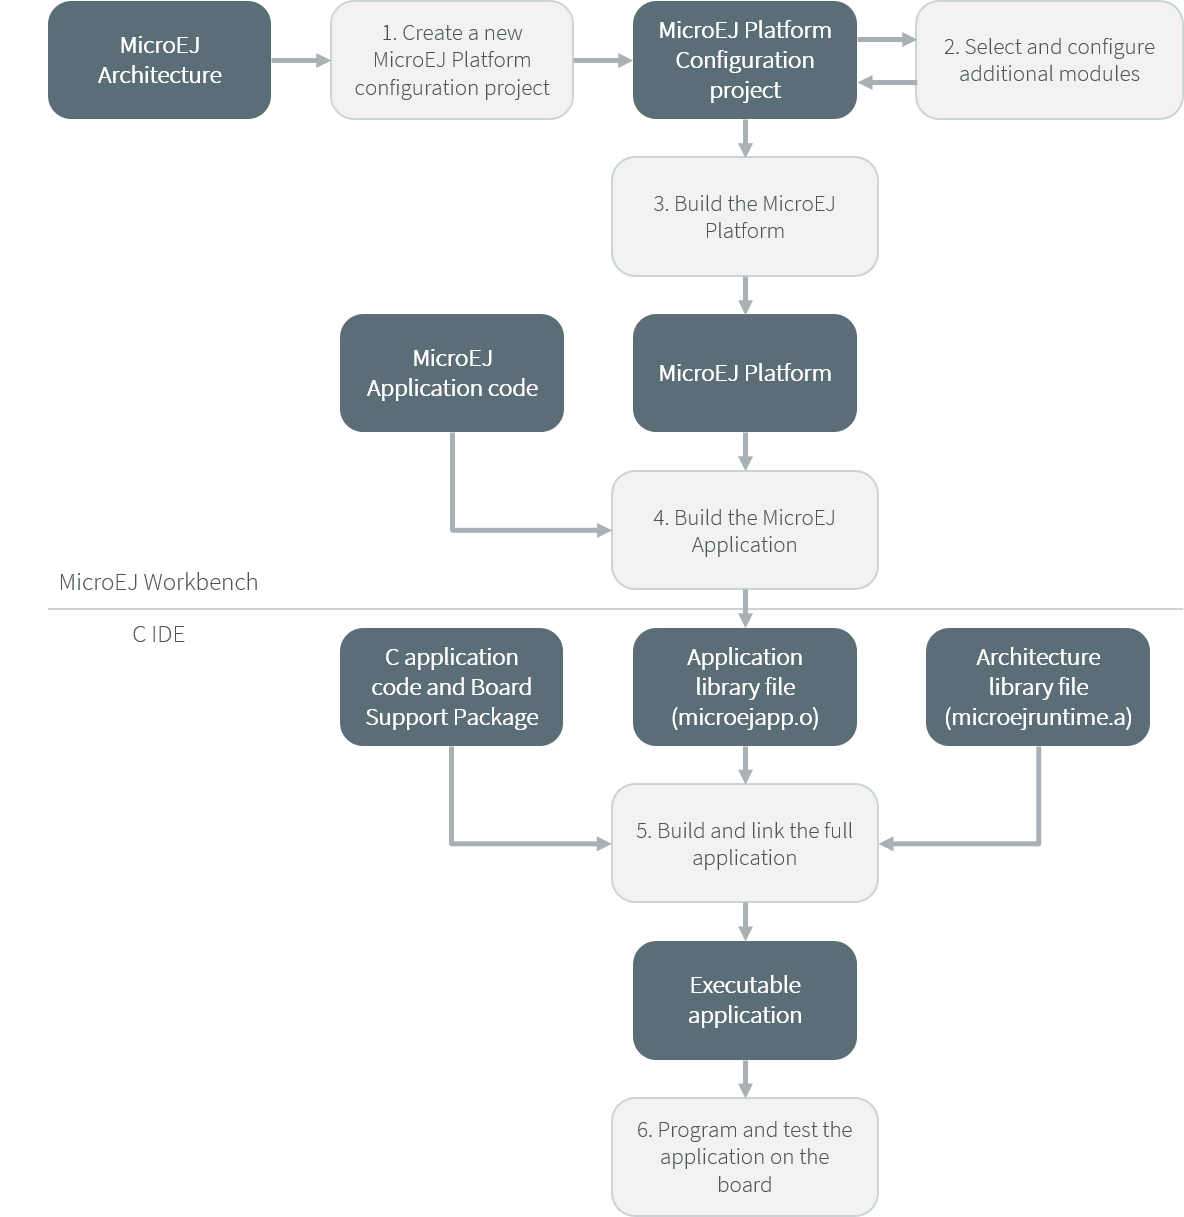
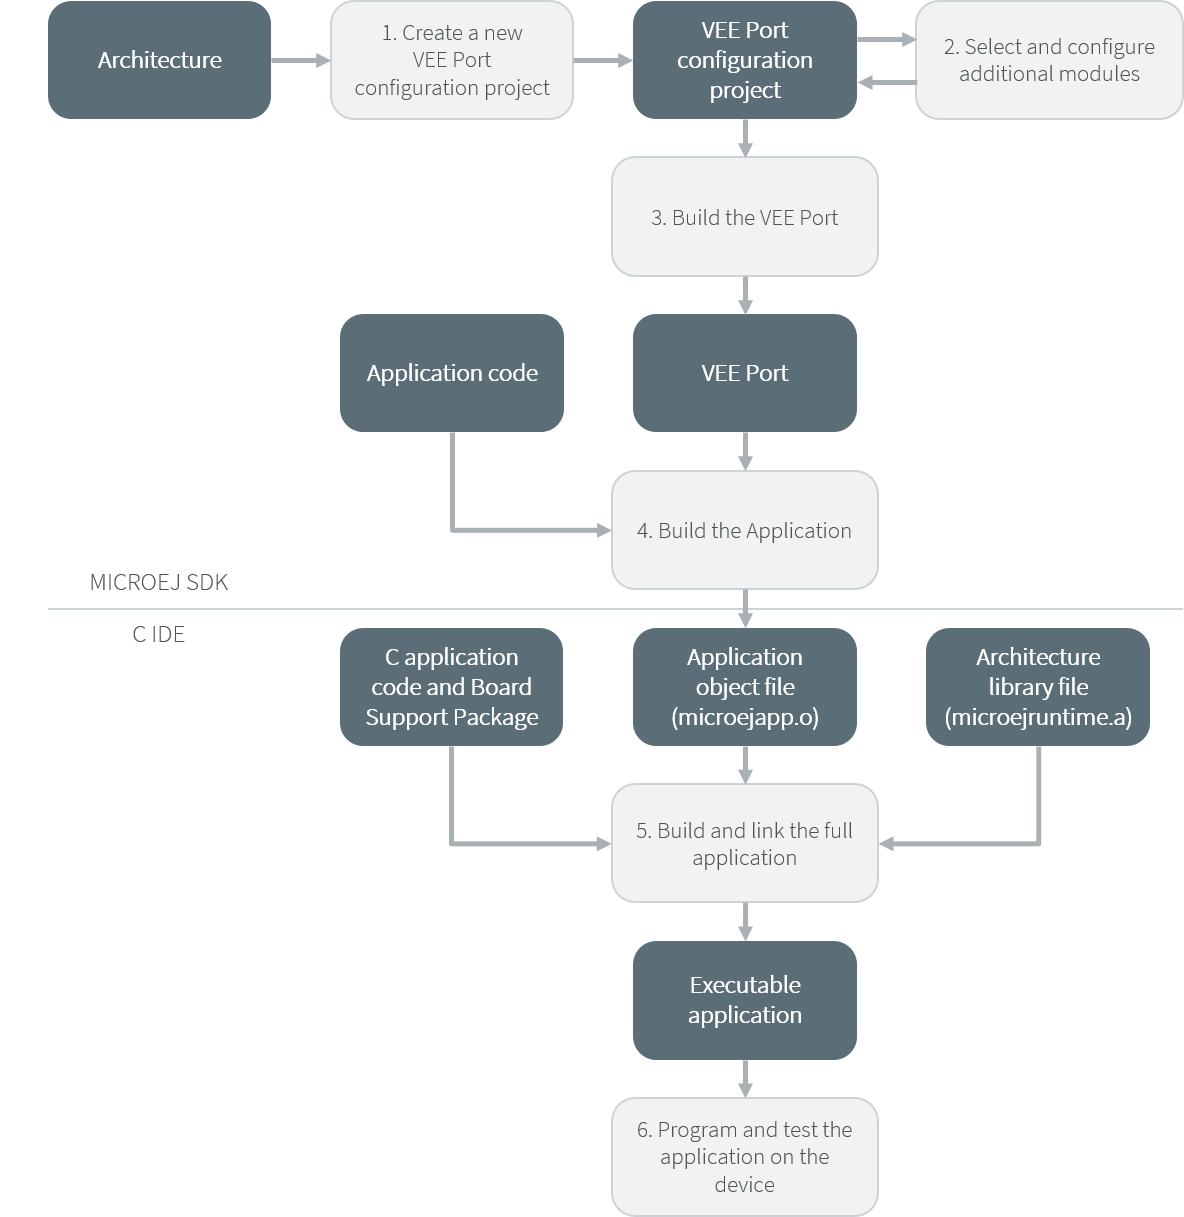
move build process to index
- review glossary in both text and picture
- hide useless toc similar to SDK chapter pages

diff --git a/VEEPortingGuide/index.rst b/VEEPortingGuide/index.rst
@@ -4,21 +4,46 @@ VEE Porting Guide
 =================
 
 This document explains how the core features are
-accessed, configured and used for creating a port of MICROEJ VEE (VEE Port) on your dedicated device.
-
+accessed, configured and used for creating a port of MICROEJ VEE (VEE Port) on your dedicated device. 
 It also explains how an Application can interoperate with native code, and
 the details of the Architecture modules, including their APIs, error codes
-and options.
-
-Semantics of implemented Foundation Libraries are described in
+and options. Semantics of implemented Foundation Libraries are described in
 their respective chapters as well as the required Abstraction Layers APIs for porting them 
 to different targets. 
 
+The following figure shows the overall process to obtain an Executable file to deploy on a device.
+The first three steps are performed within MICROEJ SDK. The remaining steps are performed within the C IDE.
+
+.. _fig_overall-process:
+.. figure:: images/process-overview5.*
+   :alt: Overall Build Process
+   :scale: 80%
+   :align: center
+
+   Overall Build Process
+
+The steps are as follow:
+
+1. Create a new VEE Port configuration project. This project
+   describes the VEE Port to build (Architecture selection).
+
+2. Select which modules provided by the Architecture and Packs will be
+   installed in the VEE Port.
+
+3. Build the VEE Port according to the choices made in steps 1 and 2.
+
+4. Build an Application against the VEE Port in order
+   to obtain an object file to link in the BSP.
+
+5. Compile the BSP and link it with the Application object file that was
+   built previously in step 4 to produce an Executable.
+
+6. Final step: Deploy the Executable (i.e. the binary application) onto a device.
+
 .. toctree::
+   :hidden:
    :maxdepth: 3
 
-  
-   platform
    architecture
    pack
    platformCreation
